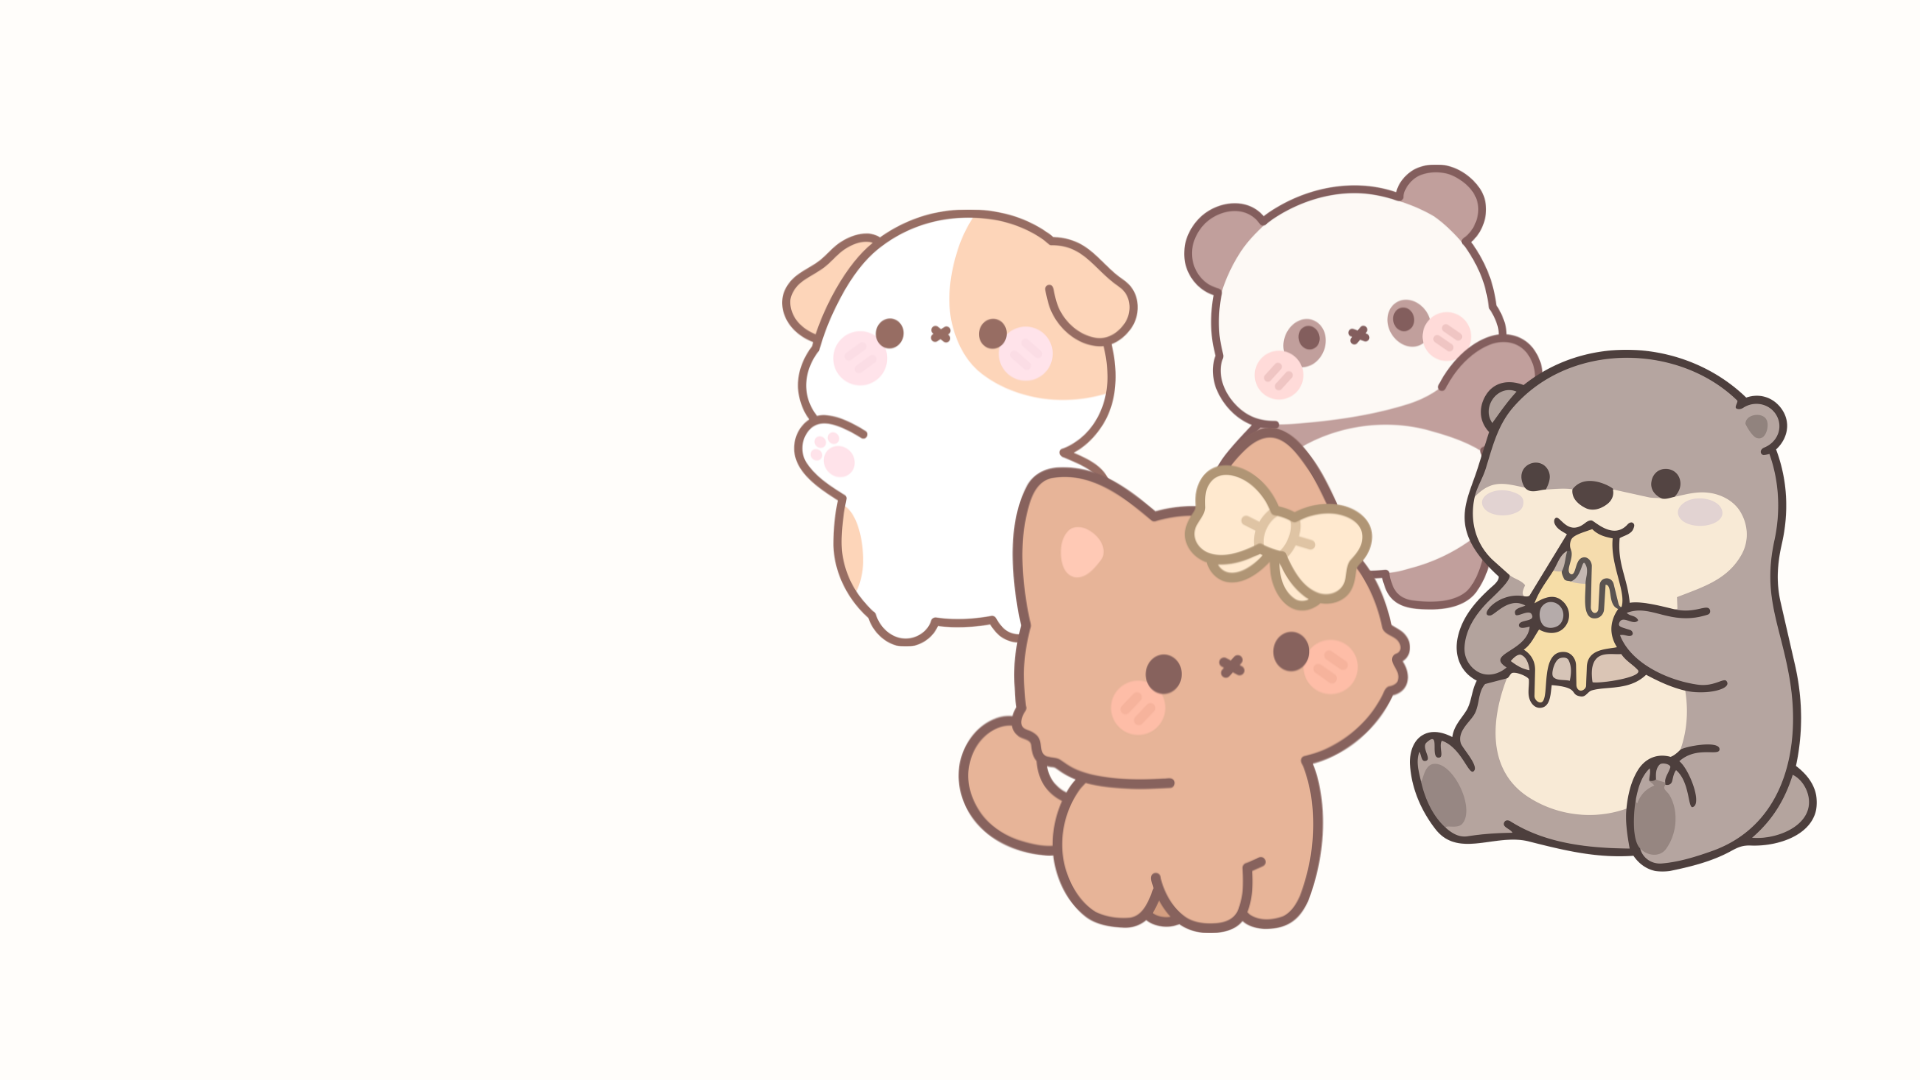
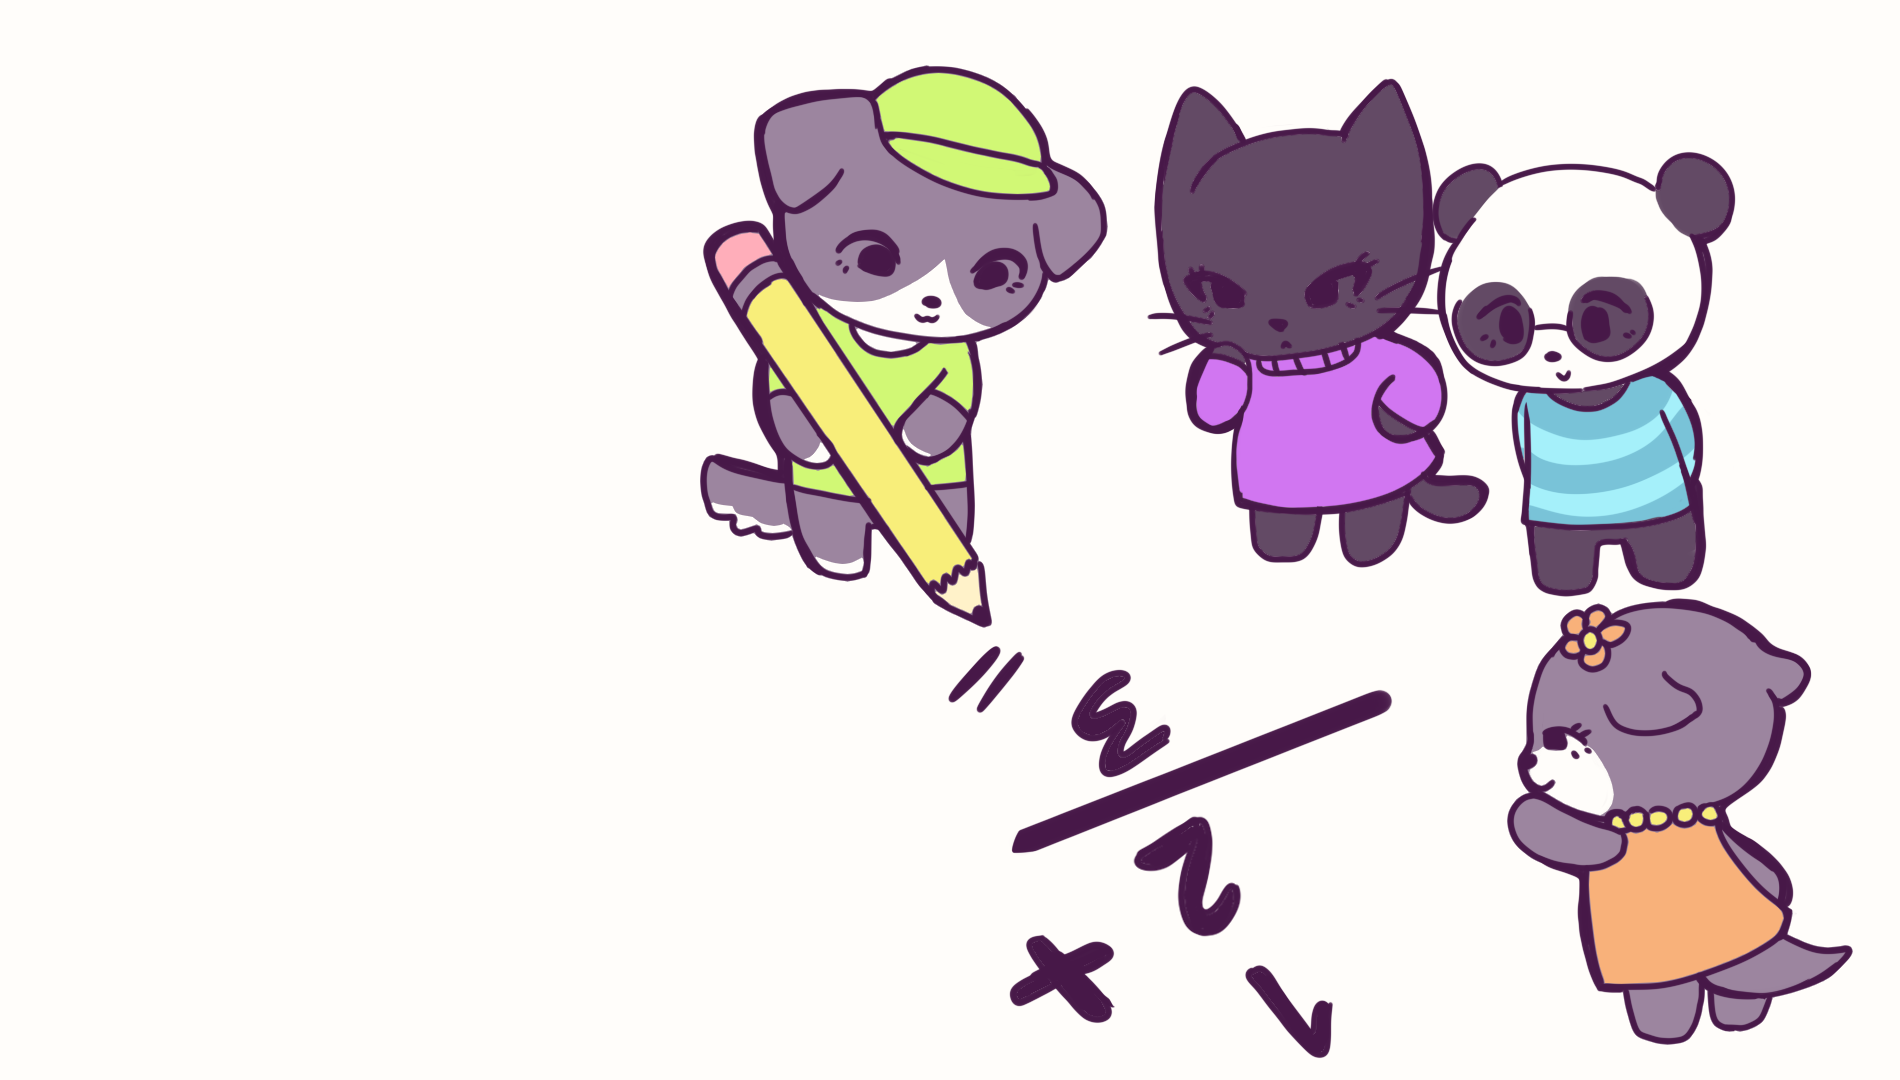
aaaaaaaaaaaaaaaaaaa

diff --git a/public/assets/css/vn.css b/public/assets/css/vn.css
@@ -50,7 +50,8 @@ body.vn-editing .vn-root { padding-right: 400px; }
 .vn-char {
     position: absolute;
     bottom: 0;
-    height: 88%;
+    height: 80%;
+    margin-bottom: 10%;
     transform: translateX(-50%);
     opacity: 0;
     transition: opacity .3s ease, left .35s ease;

diff --git a/app/views/auth/register.php b/app/views/auth/register.php
@@ -28,7 +28,7 @@
                     <label class="avatar-option">
                         <input type="radio" name="avatar" value="1" <?= (($userData['avatar'] ?? 1) == 1) ? 'checked' : '' ?>>
                         <div class="avatar-card">
-                            <img src="<?= BASE_URL ?>/assets/img/av1.png" alt="Avatar Coelho com Ursinho">
+                            <img src="<?= BASE_URL ?>/assets/img/av1.png" alt="Avatar Coelho">
                             <div class="overlay">
                                 <span class="checkmark"><i class="bi bi-check-lg"></i></span>
                             </div>
@@ -38,7 +38,7 @@
                     <label class="avatar-option">
                         <input type="radio" name="avatar" value="2" <?= (($userData['avatar'] ?? 1) == 2) ? 'checked' : '' ?>>
                         <div class="avatar-card">
-                            <img src="<?= BASE_URL ?>/assets/img/av2.png" alt="Avatar Coelho com Laço">
+                            <img src="<?= BASE_URL ?>/assets/img/av2.png" alt="Avatar Coelha">
                             <div class="overlay">
                                 <span class="checkmark"><i class="bi bi-check-lg"></i></span>
                             </div>

diff --git a/config/avatars.php b/config/avatars.php
@@ -1,8 +1,4 @@
 <?php
-
-// Gênero de cada avatar (coluna users.avatar). Usado para trocar os pronomes
-// nos diálogos: {menino|menina}, {o|a}, {ele|ela}...  ('m' = 1ª opção, 'f' = 2ª opção)
-// Se o avatar 1 for a menina, é só inverter aqui.
 return [
     1 => ['gender' => 'm'],
     2 => ['gender' => 'f'],
